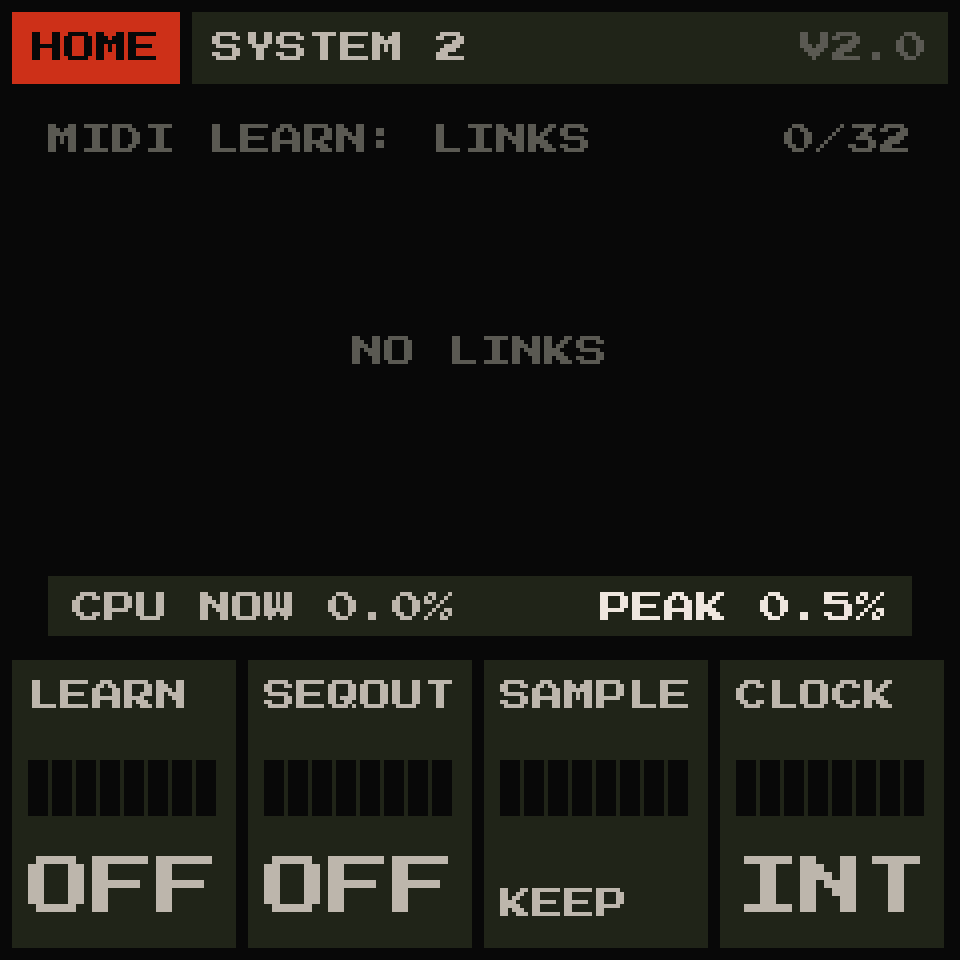
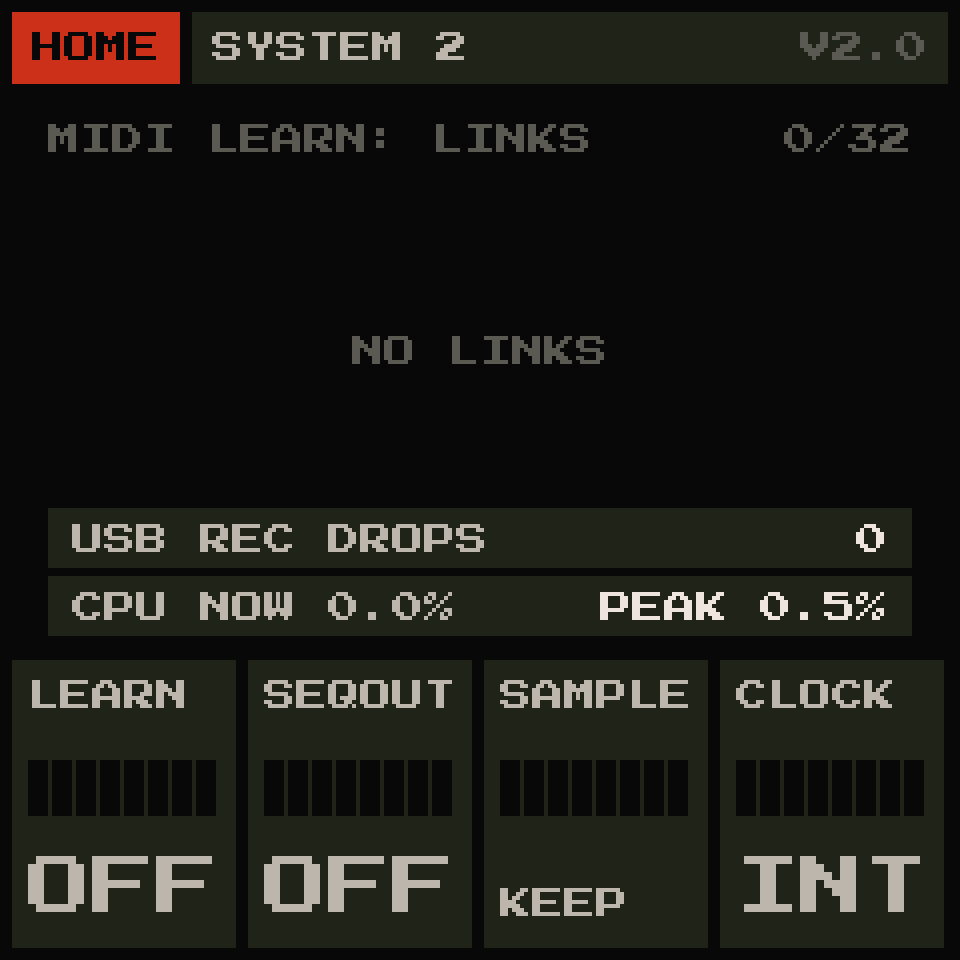
MANUAL.md matches rc12; manual screenshots from the final build
TAPE per track and WOW as random slips, NEW resets the mixer, USB REC
DROPS, CUT/DRY/FX0, CPU FULL, 10 s and 60 s save rules, WATCHDOG and LOW
VOLTAGE RESET, factory sounds never switch chord mode on. docs/screens
re-rendered from build/final-check/screens (same names and sizes).

Changed region(s): [[0.0312, 0.5312, 0.9688, 0.5938]]

diff --git a/MANUAL.md b/MANUAL.md
@@ -13,9 +13,10 @@ Version 2.0 · for the M-VAVE FM-1
 - **MIDI:** the **TRS jack is a MIDI input** now; **MIDI clock** in (USB or TRS) and out (USB): SYSTEM 2's **CLOCK**; MIDI CHANNEL **CH n > SEL** plays the selected track from one channel. See [System](#11-system-hold-home).
 - **Faster playing:** **hold SEL + OCT+** switches the track's LATCH; **hold REC** (~1 s) clears the track's pattern; SYSTEM 3's **LATCH** decides whether a sound you load brings its own LATCH or always starts unlatched; SYSTEM 3's **VELOCITY** lets MIDI notes play as loud as they were played; SOURCE's **GLIDE** slides each note from the one before.
 - **PHASE's LINE 2:** a new page after SOURCE on PHASE tracks gives the second line its own **WAVE** and **DCW**, **RING** (line 1 × line 2) and **NOISE**, as on a Casio CZ; the **PHASE ENV** page after it adds a DCW envelope and a pitch envelope to every note. See [Sounds](#3-sounds-edit).
-- **VOICE choirs from real singers:** the VOICE source has a **TYPE** (SOURCE page, KNOB 3): SOLO (one voice, as in 1.0), or a choir of six singers on every note, made from recordings of real singers: GREGORIAN, NUNS or CATHEDRAL. Four choir sounds use them: GREGORIAN (parallel fifths), PLAINCHANT, CATHEDRAL CHOIR and NUNS. See [Sounds](#3-sounds-edit).
+- **VOICE choirs from real singers:** the VOICE source has a **TYPE** (SOURCE page, KNOB 3): SOLO (one voice, as in 1.0), or a choir of six singers on every note, made from recordings of real singers: GREGORIAN, NUNS or CATHEDRAL. Four choir sounds use them: GREGORIAN (set to FIFTH chords: switch chord mode on to hear parallel fifths), PLAINCHANT, CATHEDRAL CHOIR and NUNS. See [Sounds](#3-sounds-edit).
 - **GENERATE:** hold FX and tap a black key to let a track play random notes of the scale by itself, in three moods (DRIFT, PULSE, STORM), each track with its own mode, octave and range, shown on the PERFORM screen. See [Performance](#10-performance-hold-fx).
-- **MIXER 1 as six tiles:** LEVEL with a live meter, the DELAY, REVERB and GRAIN sends, and two new per-track sends, **TAPE** and **DRIVE**. See [HOME](#2-home).
+- **MIXER 1 as six tiles:** LEVEL with a live meter, the DELAY, REVERB and GRAIN sends, and two new per-track sends, **TAPE** and **DRIVE**. TAPE now works per track: only the tracks whose TAPE tile is up go through the tape (0 = untouched), and its **WOW** is random tape slips instead of a steady wobble. See [HOME](#2-home).
+- **Warnings:** HOME shows a red **CUT** under a track whose filter is closed and **DRY** under a track whose FX is at 0; SYSTEM 2 counts **USB REC DROPS**; the header says **CPU FULL: NOTE DROPPED** when the FM-1 has too much to play. See [HOME](#2-home) and [System](#11-system-hold-home).
 - **Darker screens:** spider webs on HOME, fangs in the VOICE mouth, bats at start-up, and a live level meter on MIXER 1.
 - **The editor:** new FX and SETTINGS sections, backups now hold the four samples too, and a NORMALISE switch for samples. See [The editor](#15-the-editor).
 - **Cleaner and lighter:** samples uploaded with the editor no longer crackle, PHYS uses much less of the processor (at most four PHYS notes at once), and long backups, DAW loops, latched PHYS notes and the `SAVES WHEN SILENT` message all behave as they should.
@@ -46,7 +47,7 @@ GR!MM has **four tracks (T1–T4)**. Each track plays one sound, has its own seq
 
 **Knobs speed up:** turn slowly for fine steps, quickly to sweep the whole range.
 
-**Saving is automatic:** when the sequencer is stopped and you haven't touched anything for 2.5 seconds, GR!MM saves your work. Switch off any time; it comes back exactly as you left it. (It never saves while something is still sounding, to avoid audio dropouts; the header says `SAVES WHEN SILENT` for 2 seconds when it starts waiting, then gets out of the way; the save still waits.)
+**Saving is automatic:** when the sequencer is stopped and you haven't touched anything for 2.5 seconds, GR!MM saves your work. Switch off any time; it comes back exactly as you left it. (It never saves while something is still sounding, to avoid audio dropouts; the header says `SAVES WHEN SILENT` for 2 seconds when it starts waiting, then gets out of the way; the save still waits. With an effect tail that never ends (DELAY feeding back, SPACE on INF, GRAIN frozen) it would wait for ever, so saves, sample uploads and editor writes go ahead 10 seconds after the last note. While a computer records the FM-1 over USB, autosave waits until you have left the FM-1 alone for 60 seconds, and saves straight away when the recording stops.)
 
 **Undo:** hold **EDIT** and press **OCT−** to undo the last edit, **OCT+** to redo it.
 
@@ -68,6 +69,7 @@ The main screen: the eye, two spider webs in the top corners (dew glints on them
 
 - **CUTOFF / RESONANCE:** a filter at the end of the track, for every source: a low-pass unless MIXER 2 says otherwise. Fully open = no filtering.
 - **FX:** turns all five of the track's effect sends (MIXER 1's DELAY, REVERB, TAPE, GRAIN, DRIVE) up or down together. 0 = dry, 100 % = as set on MIXER 1, 200 % = twice as wet.
+- **CUT and DRY:** a small red **CUT** under a track's name on HOME means its filter is closed (nothing gets through); a red **DRY** means its FX is at 0, so it gets no effects although a send is up. On MIXER 1 such a track's send tiles are dimmed and show **FX0**.
 
 Press **HOME** again for the mixer pages:
 
@@ -81,8 +83,8 @@ Press **HOME** again for the mixer pages:
 - **MIXER 1** is six tiles for the selected track: **LEVEL**, **DELAY**, **REVERB** on top, **TAPE**, **GRAIN**, **DRIVE** below. Turn **SELECT** to move the red outline from tile to tile; **KNOB 1** sets the outlined tile (its bar and number turn red). **ALGORITHM** picks the track, as everywhere. The other knobs do nothing here.
 - **LEVEL:** the bar is a live meter: it moves with the track's sound, and its top two segments turn red at the peak. The meter's colour shows the LEVEL (dim grey when low, white when full). The small notch under it marks where LEVEL is set; the number is the LEVEL setting.
 - **DELAY, REVERB, GRAIN:** how much of the track goes to DELAY, SPACE and GRAIN.
-- **DRIVE send:** sends the track to a drive of its own, which joins the dry mix in the middle (not panned); the driven sound isn't sent on to GRAIN, DELAY or SPACE, but MASTER, the DRIVE page and TAPE still act on it. It uses the DRIVE page's **TYPE** and **TONE**; the send is how hard the track hits it. It works even when the DRIVE page's AMOUNT is 0, so you can drive one track and leave the others clean. All DRIVE sends at 0 = off completely.
-- **TAPE send:** sends the track through a tape of its own, which joins the dry mix in the middle (not panned), like the DRIVE send. It uses the TAPE page's **WOW**, **SATURATION** and **TONE** (not its HISS, which stays on the whole mix): the send is how much of the taped track you hear beside the clean one, and how hard it hits the SATURATION. With the TAPE page all at 0 the send is a clean copy of the track; with WOW up it wobbles against the clean track, a chorus-like shimmer. It works whether or not TAPE is on for the whole mix. All TAPE sends at 0 = off completely.
+- **DRIVE send:** sends the track to a drive of its own, which joins the dry mix in the middle (not panned); the driven sound isn't sent on to GRAIN, DELAY or SPACE, but MASTER and the DRIVE page still act on it. It uses the DRIVE page's **TYPE** and **TONE**; the send is how hard the track hits it. It works even when the DRIVE page's AMOUNT is 0, so you can drive one track and leave the others clean. All DRIVE sends at 0 = off completely.
+- **TAPE:** how much of this track goes through the tape. **0 = untouched**: the track doesn't go through the tape at all. The tape sits first on the track, so the track's other sends (DELAY, REVERB, GRAIN, DRIVE) hear the taped sound. It uses the TAPE page's **WOW**, **SATURATION** and **TONE**; **HISS** plays while at least one track uses the tape. **WOW** is random tape slips on the track's notes: the pitch stays steady, then every few seconds the tape briefly jerks or sags off and back. The TAPE page's knob only sets how big the slips are. All TAPE tiles at 0 = the tape is off completely.
 - **TYPE** (MIXER 2): the track filter is a low-pass (`LP`), high-pass (`HP`) or band-pass (`BP`). `LP` open (CUTOFF at the top) or `HP` open (CUTOFF at the bottom) means no filtering. A band-pass is gentle at RESONANCE 0 and narrows as you turn it up.
 - **POS** (MIXER 2): `PRE`: the effect sends hear the filtered sound (as GR!MM 1.0). `POST`: only the track's dry sound is filtered; GRAIN, DELAY and SPACE hear it unfiltered (a dark track with a bright reverb, say).
 
@@ -305,7 +307,7 @@ A slot holds the four tracks' sounds, sequences and mix. Tempo and effects are s
 
 - **Hold SAVE + C4, D4, E4 or F4:** save into A, B, C or D. If the slot is already used, press the key again within 3 seconds to overwrite.
 - **Hold SAVE + F3, G3, A3 or B3:** recall A, B, C or D. While playing, it switches on the next bar. Keys light up for slots that are in use.
-- **SAVE → PROJECTS page:** SLOT (A–D) and ACTION (LOAD, SAVE, ERASE, NEW), confirmed with **OCT+**. NEW gives you empty tracks and patterns.
+- **SAVE → PROJECTS page:** SLOT (A–D) and ACTION (LOAD, SAVE, ERASE, NEW), confirmed with **OCT+**. NEW gives you empty tracks and patterns, and also puts the mixer back to its defaults.
 
 ### Your own sounds
 
@@ -345,21 +347,21 @@ A saved sound is called by its category and number (`PAD 03`), or by the name yo
 
 ![FX > TAPE](docs/screens/tape.png)
 
-**FX** steps through **TAPE → GRAIN → DELAY → SPACE → MASTER → DRIVE**. Tracks feed GRAIN, DELAY and SPACE through their sends (MIXER 1, or FX on HOME), and MIXER 1's TAPE and DRIVE sends feed a tape and a drive of their own (see [HOME](#2-home)). TAPE colours everything near the end.
+**FX** steps through **TAPE → GRAIN → DELAY → SPACE → MASTER → DRIVE**. Tracks feed GRAIN, DELAY and SPACE through their sends (MIXER 1, or FX on HOME), and MIXER 1's TAPE and DRIVE tiles send a track through a tape and a drive of its own (see [HOME](#2-home)). The tape works per track, first on the track; DRIVE and MASTER act on the whole mix.
 
 | Page | KNOB 1 | KNOB 2 | KNOB 3 | KNOB 4 |
 |---|---|---|---|---|
-| TAPE | WOW | SATURATION | TONE | HISS |
+| TAPE | WOW (random slips) | SATURATION | TONE | HISS |
 | GRAIN | SIZE | DENSITY | SCATTER | MIX |
 | DELAY | TIME | FEEDBACK | WEAR | MIX |
 | SPACE | SIZE (to ~32 s, then INF) | DAMP | MIX | PRE-DELAY |
 | MASTER | CUTOFF | RESONANCE | TYPE (LP / HP / BP) | POSITION (PRE FX / POST REVERB / END) |
 | DRIVE | AMOUNT | TYPE (SOFT / FUZZ / CLIP / FOLD) | TONE | MIX |
 
-GRAIN and DELAY both pour into SPACE. All four TAPE knobs at 0 switches TAPE off completely.
+GRAIN and DELAY both pour into SPACE. The TAPE page sets the tape; each track's TAPE tile on MIXER 1 sets how much of that track goes through it (0 = untouched), so with every TAPE tile at 0 the tape is off completely.
 
-- **MASTER** filters everything, in stereo. **POSITION** says where: `PRE FX` filters the tracks' dry mix before the effects return (the reverb and echoes stay bright), `POST REVERB` filters the tracks and the effects together (before DRIVE and TAPE), `END` filters the very end, after TAPE and the PERFORM tricks. `LP` with CUTOFF at the top or `HP` at the bottom switches it off completely.
-- **DRIVE** distorts everything after SPACE, before TAPE. **AMOUNT** is how hard (0 = off completely), **TYPE** the character: `SOFT` (warm saturation), `FUZZ` (lopsided, buzzy), `CLIP` (hard), `FOLD` (a wavefolder: the harder you drive it, the more it folds back into new overtones). All four are about equally loud at the same AMOUNT, so switching TYPE doesn't jump in volume, and turning AMOUNT all the way up makes it at most ~6 dB louder. **TONE** darkens it (`OPEN` at the top), **MIX** blends it with the clean sound. A limiter after it keeps even the loudest settings from blowing up the output.
+- **MASTER** filters everything, in stereo. **POSITION** says where: `PRE FX` filters the tracks' dry mix before the effects return (the reverb and echoes stay bright), `POST REVERB` filters the tracks and the effects together (before DRIVE), `END` filters the very end, after DRIVE and the PERFORM tricks. `LP` with CUTOFF at the top or `HP` at the bottom switches it off completely.
+- **DRIVE** distorts everything after SPACE. **AMOUNT** is how hard (0 = off completely), **TYPE** the character: `SOFT` (warm saturation), `FUZZ` (lopsided, buzzy), `CLIP` (hard), `FOLD` (a wavefolder: the harder you drive it, the more it folds back into new overtones). All four are about equally loud at the same AMOUNT, so switching TYPE doesn't jump in volume, and turning AMOUNT all the way up makes it at most ~6 dB louder. **TONE** darkens it (`OPEN` at the top), **MIX** blends it with the clean sound. A limiter after it keeps even the loudest settings from blowing up the output.
 - MASTER and DRIVE belong to the project (saved with it, like the other effects); TYPE and POS belong to each track.
 
 ---
@@ -426,7 +428,7 @@ A track can play by itself: random notes of the **SCALE** (with chord mode on: r
   - `INT`: the FM-1's own tempo (SELECT on HOME, PRESETS on the sequencer pages).
   - `INT+OUT` (`I+OUT` on the knob): the same, and the FM-1 sends MIDI clock over USB: 24 pulses a beat (also while stopped), START when you press PLAY (it starts on the next pulse), STOP when it stops. Set your DAW to follow it. The pulses are timed to the microsecond, and when you change the tempo they glide to the new one over about two beats, so the DAW follows smoothly. While the FM-1 saves your work (a couple of seconds after you stop touching it, only while stopped) the clock pauses for a moment (about 50 ms), so a following DAW may show a brief wobble then.
   - `USB` or `TRS`: the FM-1 follows the MIDI clock coming in over USB or the TRS jack. START plays from step 1, CONTINUE carries on where STOP left it, STOP stops; PLAY and STOP on the FM-1 still work (PLAY starts on the next pulse). HOME shows `EXT` and the tempo it measures; SELECT and PRESETS don't change the tempo meanwhile. The arp, song mode and slots changed "at the next bar" all follow the clock. If the clock stops for half a second, the FM-1 carries on at its own tempo.
-- SYSTEM 2 also shows the processor load (CPU NOW / PEAK). OCT− + OCT+ together resets PEAK.
+- SYSTEM 2 also shows the processor load (CPU NOW / PEAK) and **USB REC DROPS**: how many gaps there have been in the audio sent over USB while a computer records the FM-1. Stopping or pausing the DAW also adds to it. OCT− + OCT+ together resets both.
 - **LATCH** (SYSTEM 3): what loading a sound does to a track's LATCH.
   - `FROM SOUND` (`SOUND` on the knob; the default, as GR!MM 1.0): the sound brings the LATCH it was saved with.
   - `ALWAYS OFF` (`OFF` on the knob): loading a sound sets the track's LATCH off (latched notes stop), so every sound starts unlatched, whatever was saved in it. You can still latch it by hand any time, with EDIT's LATCH or **SEL + OCT+**.
@@ -474,7 +476,7 @@ Turn **PRESETS** to step through them by category, then your own.
 | ARP | (alone) | Arpeggiator on/off |
 | REC | (alone, ~1 s) | Clear the selected track's pattern |
 | HOME | (alone) | System settings |
-| — | OCT− + OCT+ together | Reset CPU PEAK |
+| — | OCT− + OCT+ together | Reset CPU PEAK and USB REC DROPS |
 
 ---
 
@@ -484,6 +486,9 @@ Turn **PRESETS** to step through them by category, then your own.
 - **PHYS plays at most four notes at once** (it's the heaviest source). A fifth PHYS note takes the voice of a PHYS note that is fading out (released) if there is one; only when four PHYS notes are all on (held or latched) does it take the oldest of them.
 - **Looping MIDI from a DAW:** if a note arrives again before its note-off (a loop point), the note simply goes on: the arp isn't restarted, and the late note-off of the earlier one doesn't stop the new one. ALL NOTES OFF (CC 123, which DAWs send on stop) lets go of every note MIDI is holding; latched notes stay.
 - **Your sounds, slots A–D, settings and samples survive firmware updates.**
+- **CPU FULL: NOTE DROPPED:** the FM-1 has too much to play at once. It lets go of fading and generated notes first and keeps the notes you hold and the latched ones.
+- **After an unexpected restart** the header says why for a moment at power-on: `WATCHDOG RESET` (the FM-1 froze and restarted itself) or `LOW VOLTAGE RESET` (the power supply dipped).
+- **Factory sounds never switch chord mode on** when you load them. GREGORIAN, CATHEDRAL CHOIR and NUNS have their chord type set (GREGORIAN: FIFTH), so hold SEL to hear them as chords.
 - **Loudness:** GR!MM 2.0 keeps 6 dB of headroom: up to three quarters of MASTER everything plays 6 dB quieter than in 1.0 (sounds and projects are unchanged, only the output), and the last quarter of MASTER brings it back up to 1.0's level. A limiter at the very end means the output never clips, whatever LEVEL, chords or DRIVE do; at the top of MASTER the loudest chords are limited a little.
 - **MIDI IN:** over USB, and on the **TRS jack** (3.5 mm, MIDI IN only) with a TRS-to-DIN MIDI adapter. (TRS adapters come in different wirings; which one the FM-1's jack needs is still being tested, and this manual will say once it's confirmed.) Notes and CCs from the jack go exactly where USB's do (MIDI CHANNEL, MIDI LEARN); SysEx from the jack is ignored.
 - **Samples:** load your own WAV files into the four slots with the [editor](#15-the-editor) (or, optionally, `tools/fm1_sample_upload.py`, see the README). SYSTEM 2's SAMPLES brings the factory samples back.
